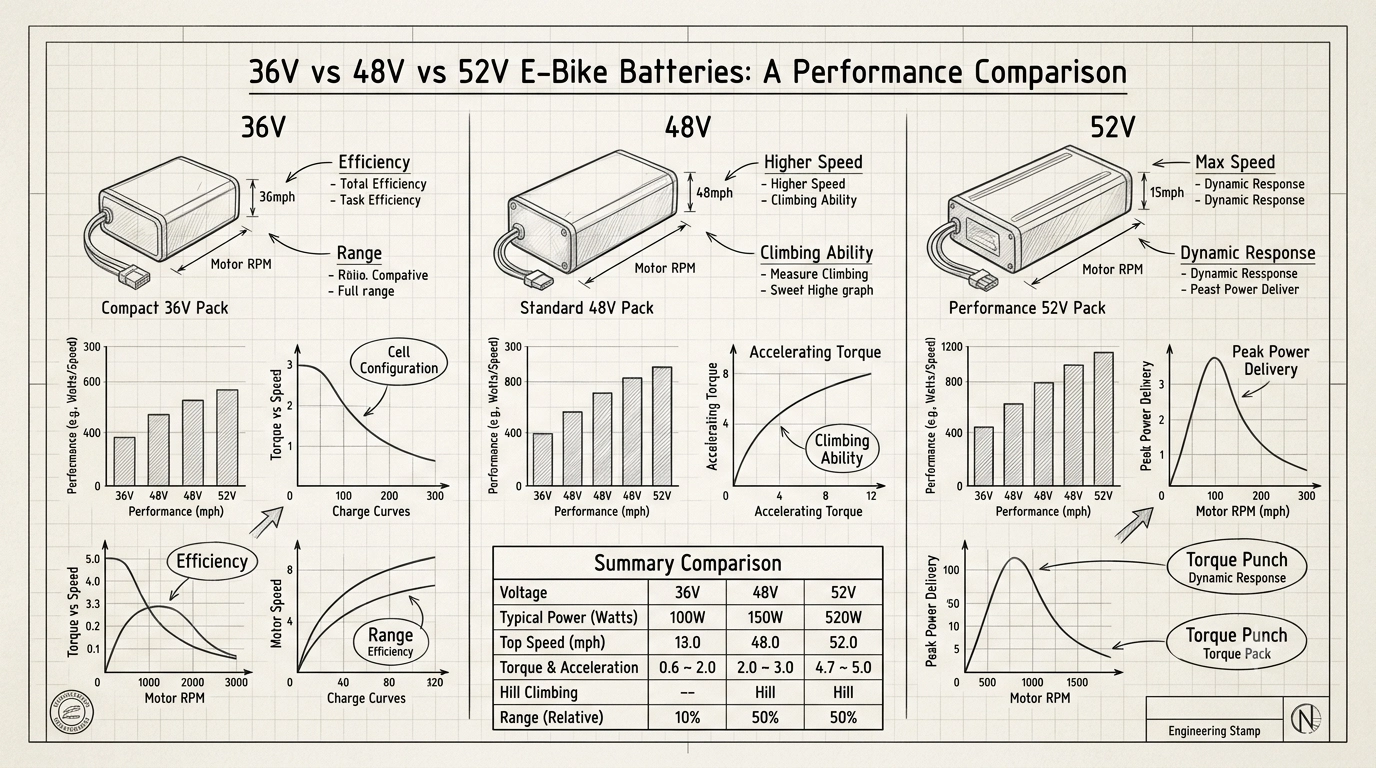
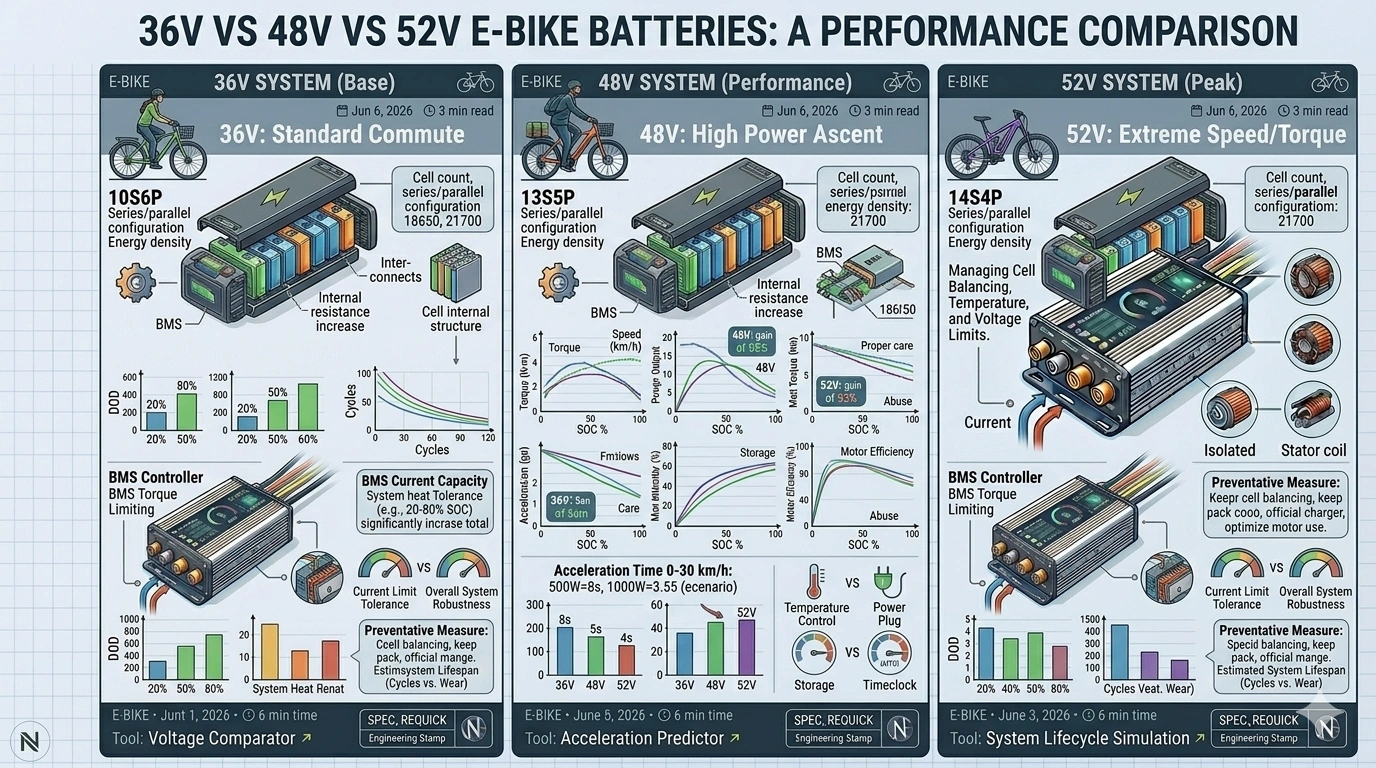
feat: add blog featured images and improve index card typography
Wire hero images for e-scooter, backup, and inverter guides; optimize blog card thumbnails to show full images with readable blueprint typography.

diff --git a/src/app/globals.css b/src/app/globals.css
@@ -4342,16 +4342,54 @@
 
 .calculator-route--blueprint .blog-post-card {
   min-height: 0;
-  padding: 0.625rem 0.75rem;
+  padding: 1rem 1.125rem;
 }
 
-.calculator-route--blueprint .blog-post-card__title {
+.calculator-route--blueprint .blog-post-card__media {
+  min-height: 7rem;
+  margin-bottom: 0.875rem;
+}
+
+.calculator-route--blueprint .blog-post-card__media--featured {
+  min-height: 8.5rem;
+}
+
+.calculator-route--blueprint .blog-post-card__media-img {
+  object-fit: contain;
+}
+
+.calculator-route--blueprint .blog-post-card__top {
+  margin-bottom: 1rem;
+}
+
+.calculator-route--blueprint .blog-post-card__category {
   font-size: 0.6875rem;
 }
 
+.calculator-route--blueprint .blog-post-card__badge {
+  font-size: 0.6875rem;
+}
+
+.calculator-route--blueprint .blog-post-card__title {
+  font-size: 1.375rem;
+  line-height: 1.35;
+  letter-spacing: -0.02em;
+}
+
+@media (min-width: 768px) {
+  .calculator-route--blueprint .blog-post-card__title {
+    font-size: 1.5rem;
+  }
+}
+
 .calculator-route--blueprint .blog-post-card__description {
-  font-size: 0.5625rem;
-  -webkit-line-clamp: 2;
+  font-size: 0.9375rem;
+  line-height: 1.6;
+  -webkit-line-clamp: 4;
+}
+
+.calculator-route--blueprint .blog-post-card__tool-link {
+  font-size: 0.75rem;
 }
 
 .calculator-route--blueprint .blog-hub__empty--blueprint {
@@ -4396,12 +4434,13 @@
 
 .calculator-route--blueprint .blog-article-header--blueprint .blog-article-header__featured {
   margin-top: 0.375rem;
-  margin-bottom: 0.375rem;
+  margin-bottom: 1.25rem;
 }
 
 .calculator-route--blueprint .blog-article-header--blueprint .blog-article-header__featured-img {
   border-radius: 0.125rem;
-  box-shadow: none;
+  border: 1px solid var(--blueprint-line-strong);
+  box-shadow: var(--matte-shadow-hover);
 }
 
 .calculator-route--blueprint .blog-article-header--blueprint .blog-article-header__badge {
@@ -7422,7 +7461,7 @@
 }
 
 .blog-post-card--featured {
-  min-height: 16rem;
+  min-height: 21rem;
 }
 
 .blog-post-card__media {
@@ -7430,7 +7469,9 @@
   flex-shrink: 0;
   margin: 0 0 1rem;
   width: 100%;
-  height: 5.5rem;
+  height: auto;
+  min-height: 8.5rem;
+  aspect-ratio: 16 / 9;
   overflow: hidden;
   border: 1px solid var(--matte-border-strong);
   border-radius: 0.375rem;
@@ -7439,17 +7480,18 @@
 }
 
 .blog-post-card__media--featured {
-  height: 7.5rem;
+  min-height: 10.5rem;
+  aspect-ratio: 16 / 9;
 }
 
 .blog-post-card__media-img {
-  object-fit: cover;
+  object-fit: contain;
   object-position: center;
   transition: transform 0.25s ease;
 }
 
 .blog-post-card:hover .blog-post-card__media-img {
-  transform: scale(1.03);
+  transform: scale(1.015);
 }
 
 .dark .blog-post-card__media {

diff --git a/src/components/blog/blog-post-card.tsx b/src/components/blog/blog-post-card.tsx
@@ -42,7 +42,7 @@ export function BlogPostCard({
   return (
     <article
       className={cn(
-        "blog-post-card group relative flex h-full min-h-[15rem] flex-col",
+        "blog-post-card group relative flex h-full min-h-[18rem] flex-col",
         featured && "blog-post-card--featured",
         className
       )}

diff --git a/src/content/blog/escooter-power-drop-guide.md b/src/content/blog/escooter-power-drop-guide.md
@@ -7,6 +7,10 @@ slug: escooter-power-drop-guide
 category: E-Scooter
 date: '2026-06-05'
 relatedToolId: escooter-hill-climb
+featuredImage: "/images/blog/Why Your E-Scooter Slows Down at Half Battery-optimized.webp"
+featuredImageAlt: >-
+  Technical guide on e-scooter power drop below 50% SOC — voltage sag, internal
+  resistance, and hill-climb performance
 ---
 
 Every commuter who rides past the first battery bar has felt it: at **100 % state of charge (SOC)** the deck accelerates crisply and climbs familiar ramps without drama. Below **50 % SOC**, the same hill feels steeper, throttle response softens, and crawl speed on bridges may collapse toward walking pace. That is not imagination, worn bearings, or a motor that suddenly "got weak" — it is **voltage sag** and **available electrical power** falling together as the pack delivers energy.

diff --git a/src/content/blog/escooter-commute-optimization.md b/src/content/blog/escooter-commute-optimization.md
@@ -7,6 +7,10 @@ slug: escooter-commute-optimization
 category: E-Scooter
 date: '2026-06-05'
 relatedToolId: escooter-cost-per-km
+featuredImage: "/images/blog/E-Scooter Commute Optimization-optimized.webp"
+featuredImageAlt: >-
+  Technical guide on e-scooter commute optimization — range tuning, Wh/km
+  efficiency, and lower cost per kilometre
 ---
 
 Daily e-scooter commuting optimizes two numbers that look different but share the same physics: **kilometres per charge** and **dollars per kilometre**. The first is Wh/km engineering; the second multiplies Wh/km by your electricity rate and compares against transit fares, wear items, and time value. A rider who only chases top speed often worsens both; a rider who calibrates pressure, route, and charge windows often beats public transit on marginal cost without upgrading the pack.

diff --git a/src/content/blog/escooter-range-guide.md b/src/content/blog/escooter-range-guide.md
@@ -7,6 +7,10 @@ slug: escooter-range-guide
 category: E-Scooter
 date: '2026-06-05'
 relatedToolId: escooter-range
+featuredImage: "/images/blog/E-Scooter Tyre Engineering-optimized.webp"
+featuredImageAlt: >-
+  Technical guide on e-scooter tyre engineering — air pressure, rolling
+  resistance, and range on 8–10 inch wheels
 ---
 
 Commuter e-scooters are not miniature e-bikes. They run lower nominal voltages (typically **36 V or 48 V**), weigh far less, and — critically — use **8–10 inch wheels** with a standing rider who presents more frontal area per kilogram of vehicle mass. Manufacturer range claims often assume firm tyres, flat asphalt, and a rider near the rated mass. Change tyre pressure alone and the same pack can lose double-digit percentage range without any electrical fault.

diff --git a/src/content/blog/escooter-motor-power-guide.md b/src/content/blog/escooter-motor-power-guide.md
@@ -7,6 +7,10 @@ slug: escooter-motor-power-guide
 category: E-Scooter
 date: '2026-06-05'
 relatedToolId: escooter-hill-climb
+featuredImage: "/images/blog/E-Scooter Motor Power Truth-optimized.webp"
+featuredImageAlt: >-
+  Technical guide on e-scooter motor power — continuous watts, burst current,
+  hill climbing, and 500W vs 1000W trade-offs
 ---
 
 Retail listings shout motor watts the way car ads shout horsepower. On a **14 kg folding scooter** with a **36 V or 48 V** pack, the number on the sticker is at best a continuous thermal rating and at worst a peak marketing figure that never maps to sustainable hill climbing. More watts can mean safer grades and snappier acceleration — or simply faster battery drain and hotter windings if the pack and controller cannot support the load.

diff --git a/src/content/blog/escooter-brakes-safety.md b/src/content/blog/escooter-brakes-safety.md
@@ -7,6 +7,10 @@ slug: escooter-brakes-safety
 category: E-Scooter
 date: '2026-06-05'
 relatedToolId: escooter-brake-pad-wear
+featuredImage: "/images/blog/E-Scooter Braking Safety-optimized.webp"
+featuredImageAlt: >-
+  Technical guide on e-scooter braking safety — friction brakes, regen limits,
+  and stopping on steep downhills
 ---
 
 Regenerative braking on e-scooters feels modern and efficient — until a long **8–12 %** descent on a wet bridge. Hub-motor regen can slow the deck on flats and gentle rollers, but it cannot replace **friction brakes** when potential energy overwhelms motor/controller recovery limits, or when the battery is already full and has nowhere to put electrons.

diff --git a/src/content/blog/inverter-thermal-management-guide.md b/src/content/blog/inverter-thermal-management-guide.md
@@ -7,6 +7,10 @@ slug: inverter-thermal-management-guide
 category: Guides
 date: '2026-06-05'
 relatedToolId: inverter-loading-curve
+featuredImage: "/images/blog/Thermal Limits-optimized.webp"
+featuredImageAlt: >-
+  Technical guide on inverter thermal limits — heat derating, overload cycles,
+  and summer shutdown prevention
 ---
 
 Every summer, technicians field calls about inverters tripping during peak loads. Often, the culprit is not a faulty unit—it is **thermal derating**. Inverters are rated at 25°C ambient. When the install closet, garage, or equipment room climbs toward 35–40°C, effective capacity drops and the inverter's tolerance for sustained overload shrinks fast.

diff --git a/src/content/blog/home-backup-load-guide.md b/src/content/blog/home-backup-load-guide.md
@@ -7,6 +7,10 @@ slug: home-backup-load-guide
 category: Backup
 date: '2026-06-05'
 relatedToolId: critical-load-analysis
+featuredImage: "/images/blog/Home Backup Planning-optimized.webp"
+featuredImageAlt: >-
+  Technical guide on home backup planning — critical load analysis, Wh capacity
+  sizing, and outage runtime for essential circuits
 ---
 
 Most homeowners planning backup power rely on rough estimates—"I need a big battery." The engineering approach starts with **critical load analysis**: list only the circuits that must stay alive during an outage, not every HVAC zone and dryer.
